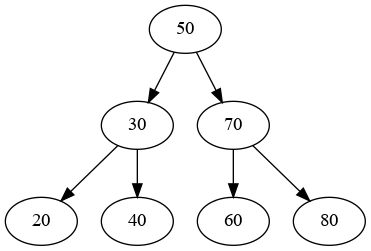
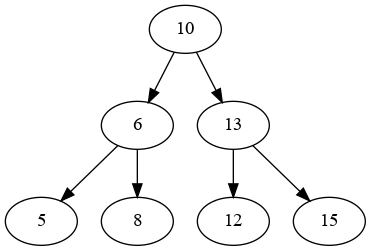
added implementation of BST

diff --git a/new/binary_search_tree.py b/new/binary_search_tree.py
@@ -1,0 +1,78 @@
+"""
+A binary search tree is a type of binary tree in which the parent node value is greater than the node values in its 
+left subtree and less than all the node values in its right subtree. Additionally there can't be repeat nodes.
+"""
+import graphviz
+class Node:
+    def __init__(self,data):
+        self.data = data
+        self.left = None
+        self.right = None
+
+    def addChild(self,data):
+        if data == self.data:
+            return # node already exists
+        if data < self.data:
+            if self.left:
+                self.left.addChild(data)
+            else:
+                self.left = Node(data)
+        else:
+            if self.right:
+                self.right.addChild(data)
+            else:
+                self.right = Node(data)
+        
+    def search(self, data):
+        if data == self.data:
+            print(self.data)
+            return True
+        if data < self.data:
+            if self.left:
+                return self.left.search(data)
+            else:
+                print("Not Found")
+                return False
+        else:
+            if self.right:
+                return self.right.search(data)
+            else:
+                print("Not Found")
+                return False
+
+    def inOrderTraversal(self):
+        if self.left:
+            self.left.inOrderTraversal()
+        print(self.data, end=" ")
+        if self.right:
+            self.right.inOrderTraversal()
+
+    def vizBSTree(self):
+        dot = graphviz.Digraph()
+        dot.node(str(self.data))
+
+        def add_nodes_edges(node):
+            if node.left:
+                dot.node(str(node.left.data))
+                dot.edge(str(node.data),str(node.left.data))
+                add_nodes_edges(node.left)
+            if node.right:
+                dot.node(str(node.right.data))
+                dot.edge(str(node.data),str(node.right.data))
+                add_nodes_edges(node.right)
+        add_nodes_edges(self)
+        dot.render('binary_tree', view=True, format='png')
+
+if __name__ == "__main__":
+    root = Node(10)
+    root.addChild(6)
+    root.addChild(5)
+    root.addChild(8)
+    root.addChild(13)
+    root.addChild(15)
+    root.addChild(12)
+    root.inOrderTraversal()
+
+    print()
+    root.search(7)
+    root.vizBSTree()
